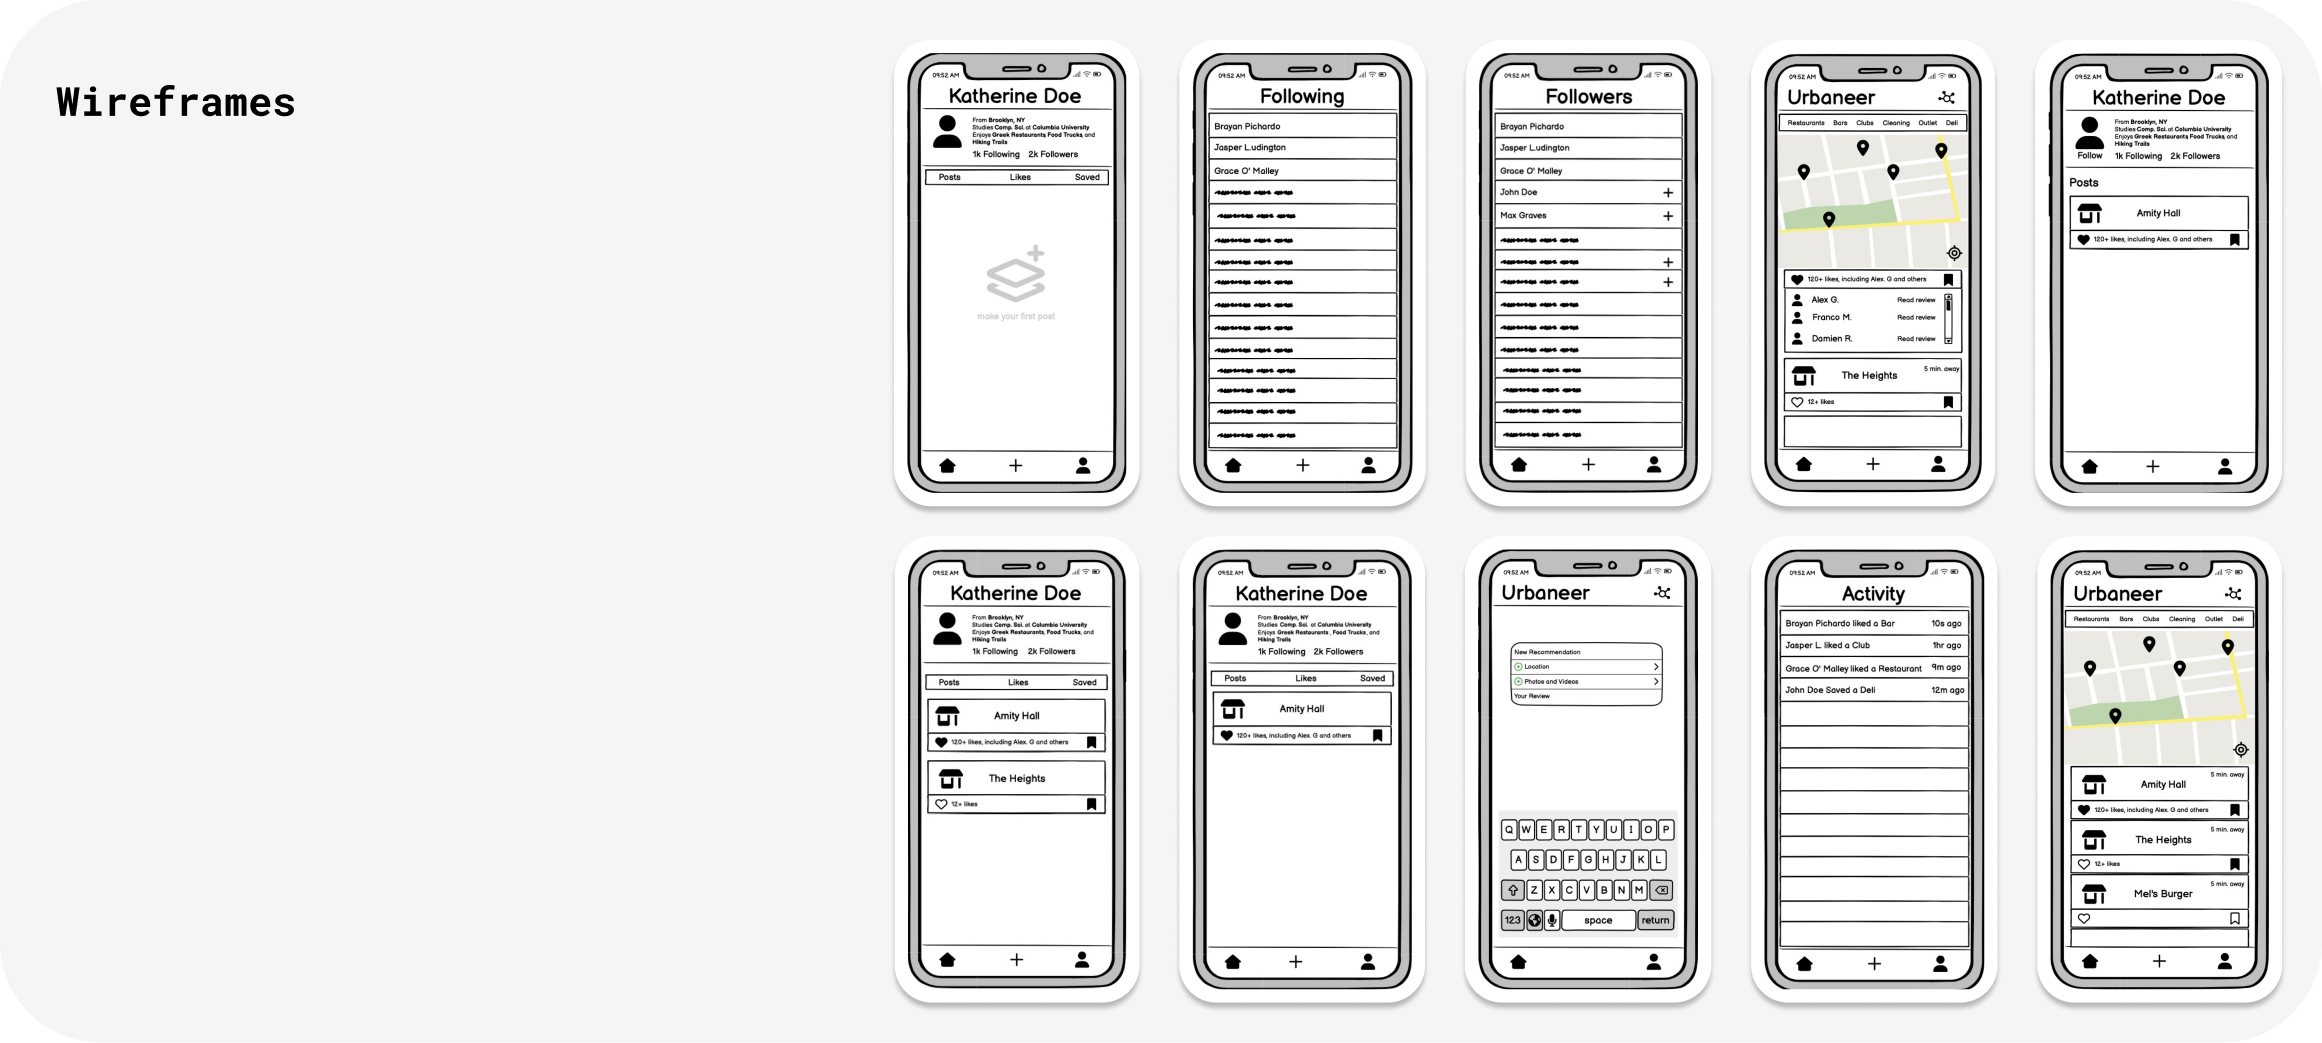
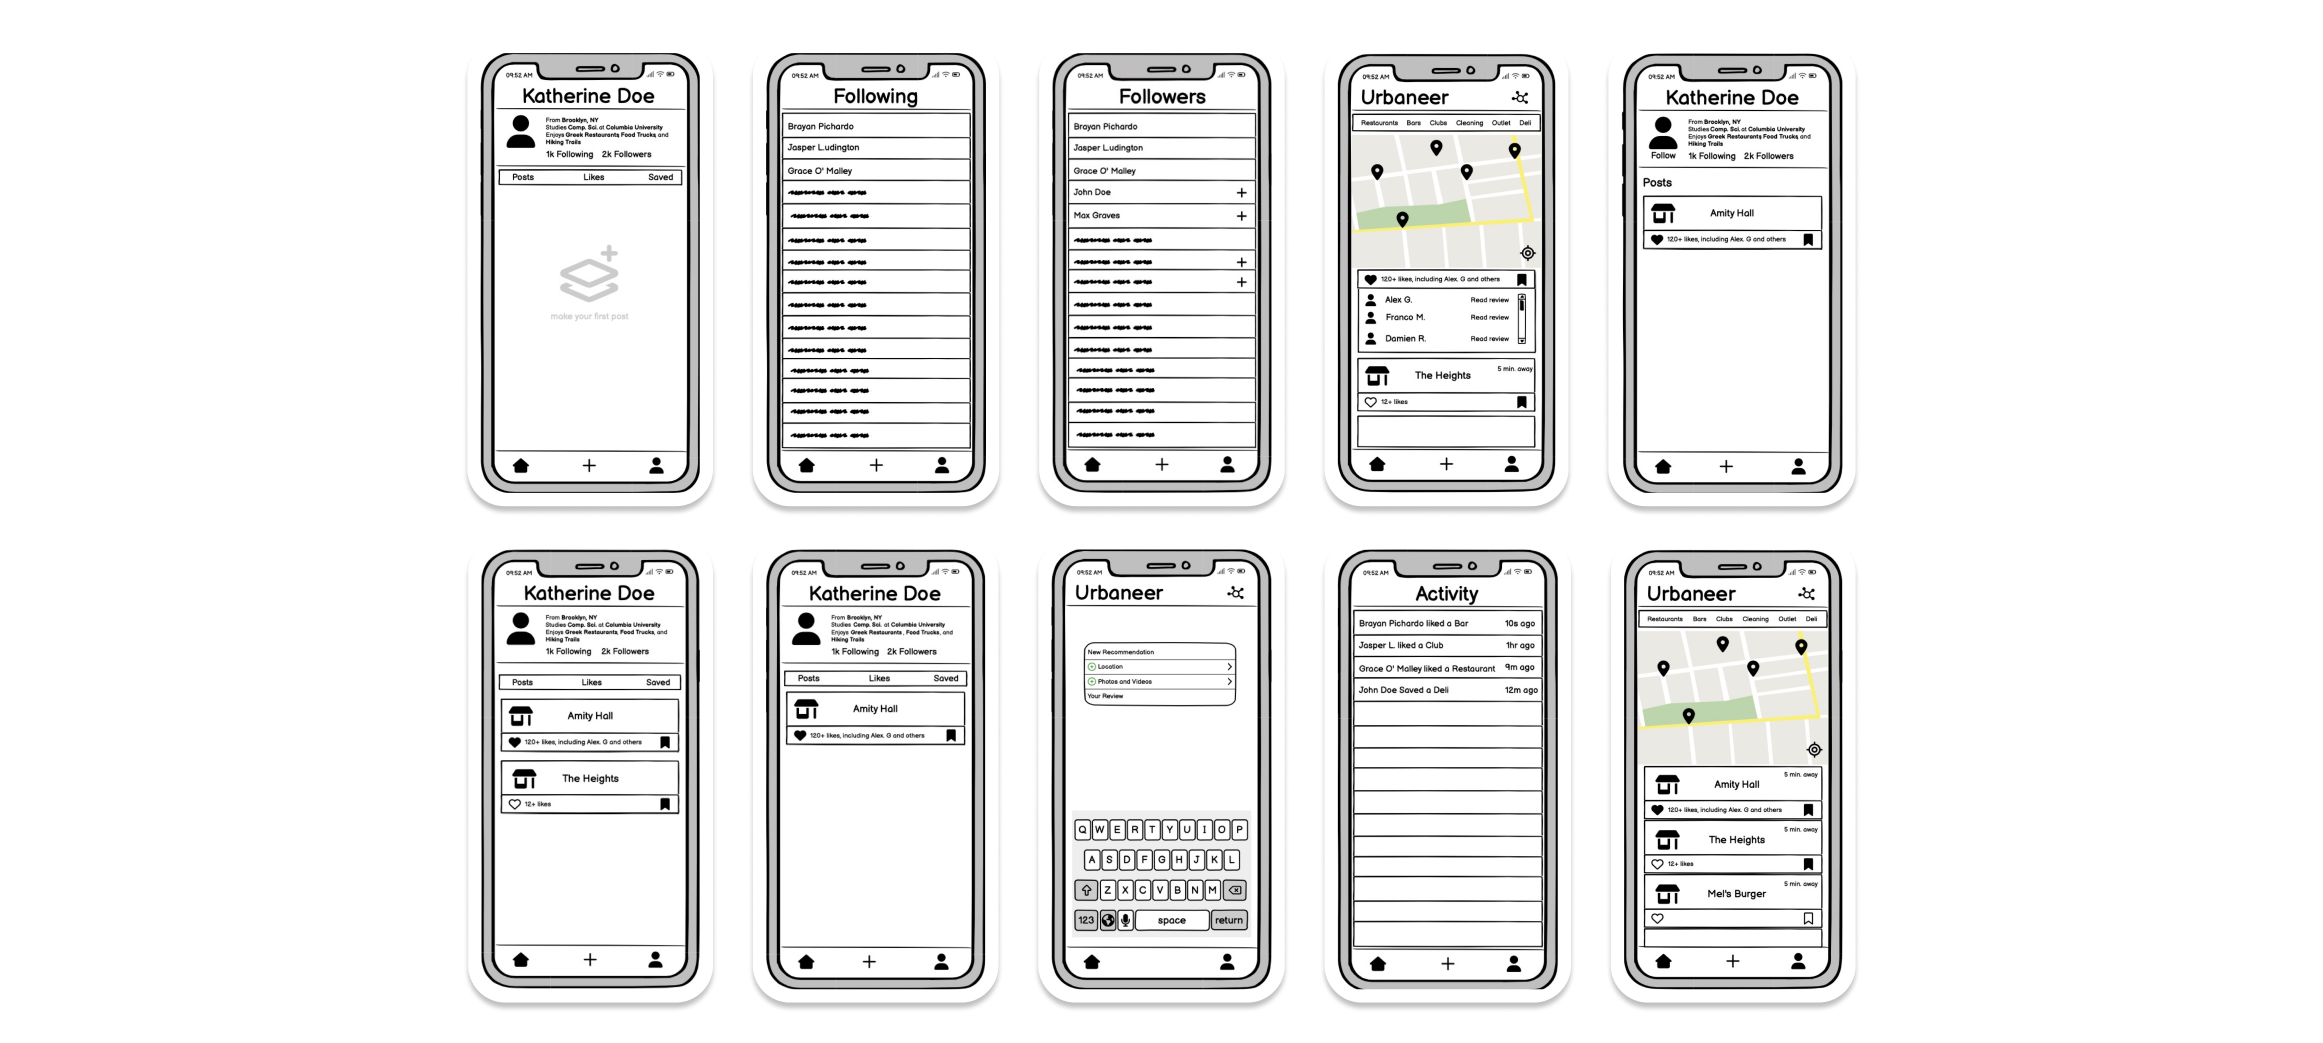
updated photos

Changed region(s): [[0.186, 0.5216, 0.9922, 0.9818], [0.186, 0.0307, 0.9922, 0.4909], [0.0, 0.092, 0.124, 0.1227]]

diff --git a/_posts/2024-04-02-newsletter.md b/_posts/2024-04-02-newsletter.md
@@ -1,13 +1,13 @@
 ---
 layout: post
 title: "CAMS Newsletter"
-thumbImagePath: assets/actualblue.png
-shortDescription: "A redesign of the Columbia Art Market Society newsletter."
-mainImagePath: assets/newsintro.png
+thumbImagePath: assets/newsletter-thumbnail.png
+shortDescription: "Redesigning the Columbia Art Market Society newsletter"
+mainImagePath: assets/newsletter-intro.png
 ---
 #### Summary
 
-In my role in the Columbia Art Market Society, I sent out a weekly newsletter sharing the latest updates on our events, along with art world news items and a selection of exhibitions in New York City for students to explore.
+In my role in the Columbia Art Market Society, I sent out a weekly newsletter sharing the latest updates on our events alongside art world news items and a selection of exhibitions in  New York City for students to explore.
 
 Seeking to improve the reader's experience, I redesigned the newsletter, practicing my design and prototyping skills on a project with real-world constraints. 
 
@@ -21,27 +21,27 @@ Seeking to improve the reader's experience, I redesigned the newsletter, practic
 
 The redesigned newsletter presents its information in a streamlined, easy-to-read format. 
 
-![System](/assets/dualheader.png)
+![System](/assets/header-ba.png)
 
 Removing images and resizing banners and rulers ensures the reader is aware of where they are and what specific event, news item, and exibition they are reading about.
 
-![System](/assets/dualnews.png)
+![System](/assets/news-ba.png)
 
-![System](/assets/dualfooter.png)
+![System](/assets/footer-ba.png)
 
 #### Final Design
 
 The final design employs color and layout to contain and distinguish the newsletter's different componenets.
 
-![Prototypes](/assets/bigheader.png)
+![Prototypes](/assets/header.png)
 
 Reducing text length and removing images reduces reading- and scroll- fatigue.
 
-![Prototypes](/assets/bignews.png)
+![Prototypes](/assets/news.png)
 
-![Prototypes](/assets/bigfooter.png)
+![Prototypes](/assets/footer.png)
 
 #### Next Steps
 
-With the newsletter's simple design system in place, components and templates could be generated and reused for social media assets, and greatly reduce the decision-making needed to produce effective graphics.
+With this simple design system in place, components and templates could be reused for the club's social media materials and reduce the decision-making needed to produce cohesive graphics.
 

diff --git a/_posts/2024-05-01-recs.md b/_posts/2024-05-01-recs.md
@@ -5,9 +5,9 @@ author:
 - Da Hoon Oh
 - Brayan Pichardo
 - Keunwoo Song
-thumbImagePath: assets/finalbiggreenthumb.png
-shortDescription: "The semester project for User Interface Design at Columbia University (Fall '23)."
-mainImagePath: assets/biggreenintro.png
+thumbImagePath: assets/recs-thumbnail.png
+shortDescription: "Semester project for User Interface Design at Columbia University (Fall '23)."
+mainImagePath: assets/recs-intro.png
 ---
 ##### with Da Hoon Oh, Brayan Pichardo, Keunwoo Song (developers)
 
@@ -27,7 +27,7 @@ An initial round of contextual inquiry and affinity diagramming processes yielde
 4. Target users want to be able to have an identity/profile to
 exhibit.
 
-![A chart](/assets/user.png)
+![A chart](/assets/user-studies.png)
 
 #### Lo-Fi Prototyping
 
@@ -43,18 +43,20 @@ Maps are useful, especially when exploring or trying to gauge distance—but in 
 
 As we further evaluated designs with users, I developed a design system to streamline prototyping and ensure visual consistency at scale.
 
-![System](/assets/greensystem.png)
+![System](/assets/system.png)
 
 #### Final Design
 
 Our final design solution serves as a comprehensive platform for students new to New York City, specifically those studying at Columbia and Barnard, to discover local establishments and services that cater to their needs as students. 
 
-![Prototypes](/assets/greenhome.png)
+![Prototypes](/assets/home.png)
 
 The app facilitates this by allowing users to search and filter through various categories, such as art, fitness, food, and fashion, to find personalized recommendations from students.
 
-![Prototypes](/assets/greenactivity.png)
+![Prototypes](/assets/activity.png)
 
-![Prototypes](/assets/greenprofile.png)
+![Prototypes](/assets/profile.png)
+
+![Prototypes](/assets/venue.png)
 
 I produced all mockups and diagrams featured on this page. 

diff --git a/_posts/2024-01-01-vision-vr.md b/_posts/2024-01-01-vision-vr.md
@@ -3,7 +3,7 @@ layout: post
 title: "Performing Visual Tasks with Simulated Vision Impairments"
 categories: misc
 thumbImagePath: assets/vision.jpg
-shortDescription: "The final project for 3D User Interfaces & Augmented Reality at Columbia University (Spring '24)."
+shortDescription: "Final project for 3D User Interfaces & Augmented Reality at Columbia University (Spring '24)."
 mainImagePath: assets/vision.gif
 ---
 ##### with Nova Cash, Hong Ann Do

diff --git a/_posts/2024-04-01-mapping-citi-bike.md b/_posts/2024-04-01-mapping-citi-bike.md
@@ -7,7 +7,7 @@ author:
 - Nelson Mandela Muntz
 meta: "Springfield"
 thumbImagePath: assets/bike.png
-shortDescription: "An interactive data visualization exploring the last decade of Citi Bikes in New York City."
+shortDescription: "Interactive data visualization exploring the last decade of Citi Bikes in New York City."
 externalUrl: "https://francograaff.github.io/mapping-citibike/"
 ---
 
